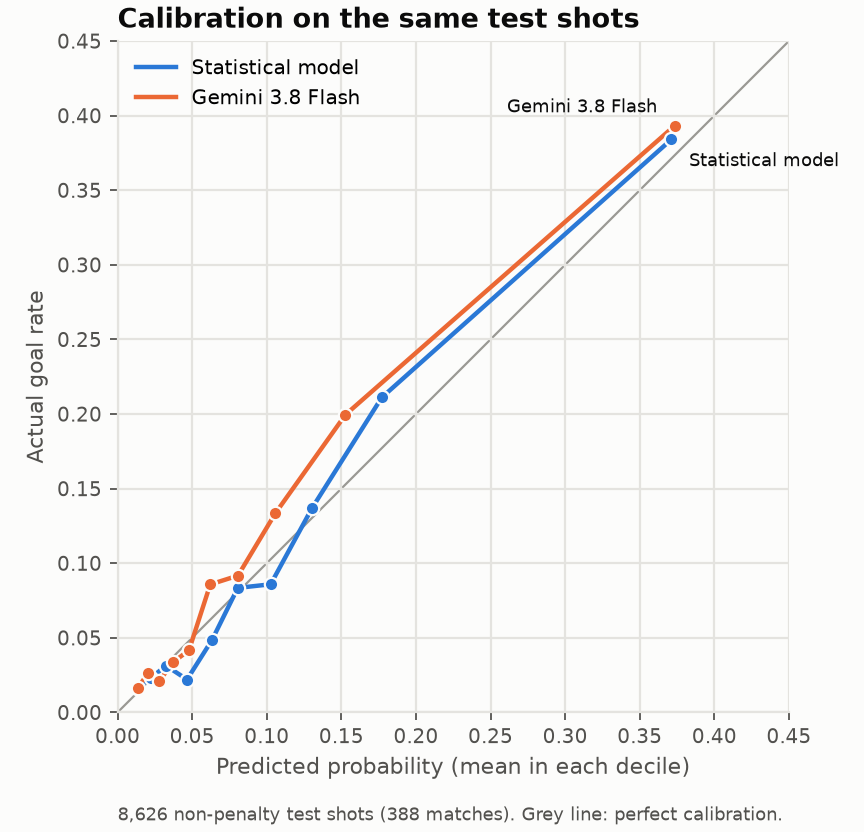
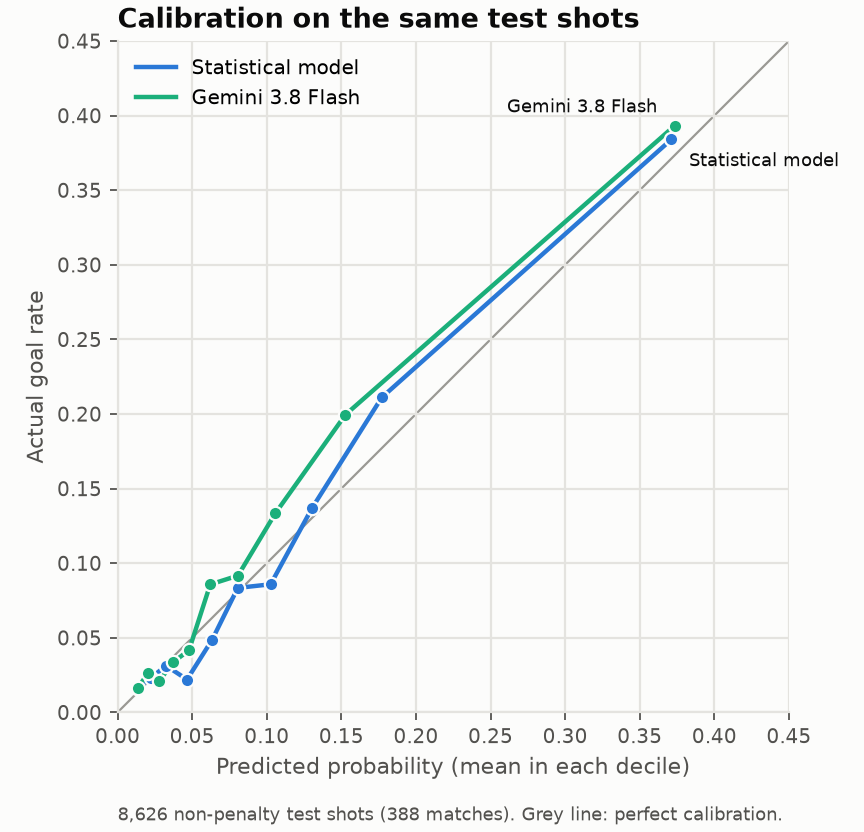
docs: 図の色を、Gemini はアクア・Claude はオレンジにする（ブランドの色に寄せる） (#23)

diff --git a/src/football_xg_vs_llm/compare_llm.py b/src/football_xg_vs_llm/compare_llm.py
@@ -55,9 +55,12 @@ BOOTSTRAP = 2000
 SEED = 2026
 DISTANCE_BANDS = (0.0, 6.0, 12.0, 18.0, 24.0, 200.0)
 
-# dataviz の既定のパレット: カテゴリの 1番目（青）と 2番目（オレンジ）
+# dataviz の既定のパレット: 統計モデルはカテゴリの 1番目（青）。LLM は
+# ブランドの色に寄せて、Gemini を 3番目（アクア）、Claude を 2番目（オレンジ）
+# にする（2026-11-15 にユーザーが決めた。ほかの図でも同じ色にする）
 STAT_COLOR = "#2a78d6"
-LLM_COLOR = "#eb6834"
+GEMINI_COLOR = "#1baf7a"
+CLAUDE_COLOR = "#eb6834"
 # 正負の 2色（青 ↔ 赤）と灰色の真ん中
 DIVERGING = ["#184f95", "#6da7ec", "#f0efec", "#ec8a89", "#b33130"]
 DIFF_MAX = 0.1
@@ -205,7 +208,7 @@ def calibration_figure(data: Paired, path: Path) -> None:
     fig, ax = plt.subplots(figsize=(5.4, 5.2), layout="constrained")
     series = [
         ("Statistical model", data.stat, STAT_COLOR),
-        ("Gemini 3.8 Flash", data.llm, LLM_COLOR),
+        ("Gemini 3.8 Flash", data.llm, GEMINI_COLOR),
     ]
     bins_of = {name: calibration(data.goals, p) for name, p, _ in series}
     top = max(

diff --git a/src/football_xg_vs_llm/summary_figure.py b/src/football_xg_vs_llm/summary_figure.py
@@ -22,7 +22,11 @@ from pathlib import Path
 import numpy as np
 
 from football_xg_vs_llm.compare_context import aligned, pair_of
-from football_xg_vs_llm.compare_llm import bootstrap_differences
+from football_xg_vs_llm.compare_llm import (
+    CLAUDE_COLOR,
+    GEMINI_COLOR,
+    bootstrap_differences,
+)
 from football_xg_vs_llm.cv import CONTEXT_XG_PATH, DEFAULT_XG_PATH, load_xg
 from football_xg_vs_llm.figures import (
     DEFAULT_FIGURES_DIR,
@@ -40,10 +44,8 @@ from football_xg_vs_llm.recalibrate import recalibrate
 from football_xg_vs_llm.shots import load_shots_csv
 from football_xg_vs_llm.xg import Floats
 
-# dataviz の既定のパレット: カテゴリの 2番目（オレンジ）と 3番目（アクア）。
-# 1番目の青は、ほかの図で統計モデルに使っているので、ここでは使わない
-GEMINI_COLOR = "#eb6834"
-CLAUDE_COLOR = "#1baf7a"
+# 色は compare_llm と同じ（Gemini はアクア、Claude はオレンジ）。青は、ほかの
+# 図で統計モデルに使っているので、ここでは使わない
 COLORS = {"Gemini": GEMINI_COLOR, "Claude": CLAUDE_COLOR}
 ROWS = (
     "Distance, angle, head",

diff --git a/decisions/0005-cv-aggregates-figures.md b/decisions/0005-cv-aggregates-figures.md
@@ -28,5 +28,5 @@
 - 依存に matplotlib が増えた。matplotlib は `**kwargs` の型を書いていないので、pyright の strict の「型が一部わからない」の指摘は `figures.py` だけで外した
 - 選手 1人だけ `players.json` に名前がない（`(id …)` と出す）
 - 選ばなかった案: 学習とテストを 1回だけ分けて、テストのシュートだけ集計する（選手ごとの本数が 2割に減る）、xG を表（`data/shots.csv`）の列に足す（LLM の予測と並べるときに表を作り直すことになる）、日本語のラベル（上の文字化け）、mplsoccer でピッチを描く（線を数本描くだけなので依存を増やさなかった）
-- README に載せる図は、2026-11-15 に LLM との比べがひととおり終わってから選んだ。`shot_map.png`（モデルが場所ごとの決まりやすさを捉えているか）・`finishing_split_half.png`（決定力が続くか）・`llm_calibration.png`（Gemini は順位は同じで確率が低め）と、新しく作った `llm_summary.png`（LLM − 統計モデルの差と 95% の幅を 1枚にまとめたもの。色は dataviz の既定のパレットの 2番目と 3番目で、青は統計モデルに取っておいた）
+- README に載せる図は、2026-11-15 に LLM との比べがひととおり終わってから選んだ。`shot_map.png`（モデルが場所ごとの決まりやすさを捉えているか）・`finishing_split_half.png`（決定力が続くか）・`llm_calibration.png`（Gemini は順位は同じで確率が低め）と、新しく作った `llm_summary.png`（LLM − 統計モデルの差と 95% の幅を 1枚にまとめたもの。色は dataviz の既定のパレットで、青は統計モデル。LLM はブランドの色に寄せて Gemini をアクア、Claude をオレンジにし、`llm_calibration.png` の Gemini もアクアにそろえた（2026-11-15 にユーザーが決めた）
 - あとに回したもの: 状況ごと（直前のイベント・カウンター）、失点側（守備の xG）、試合ごとの xG と勝敗
